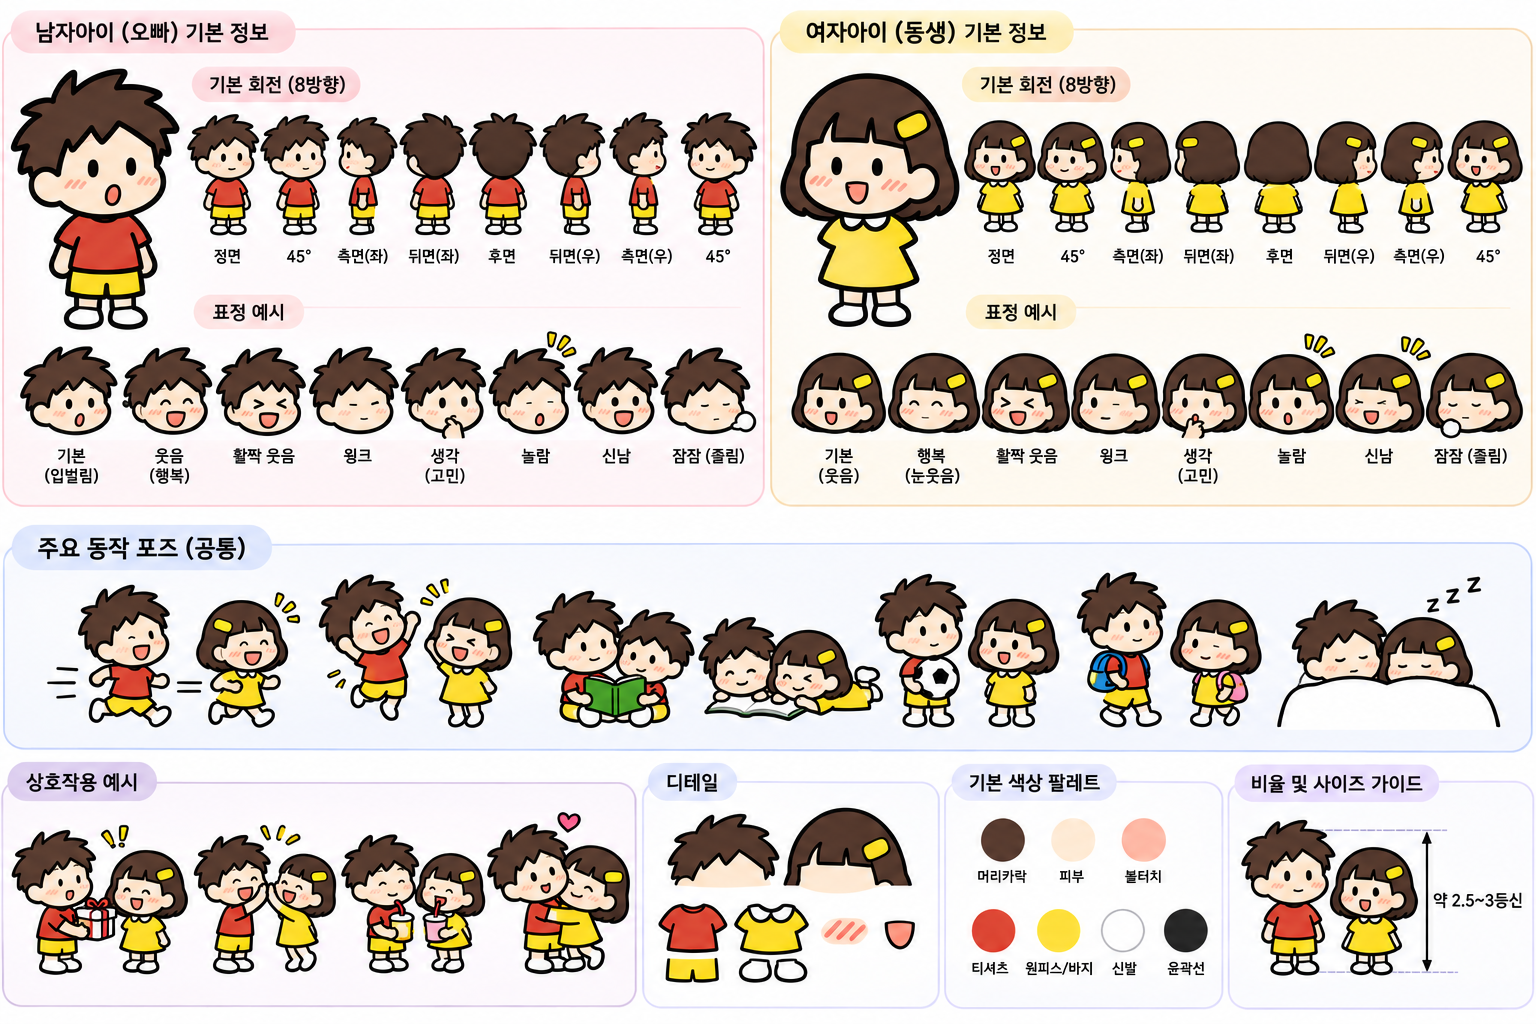
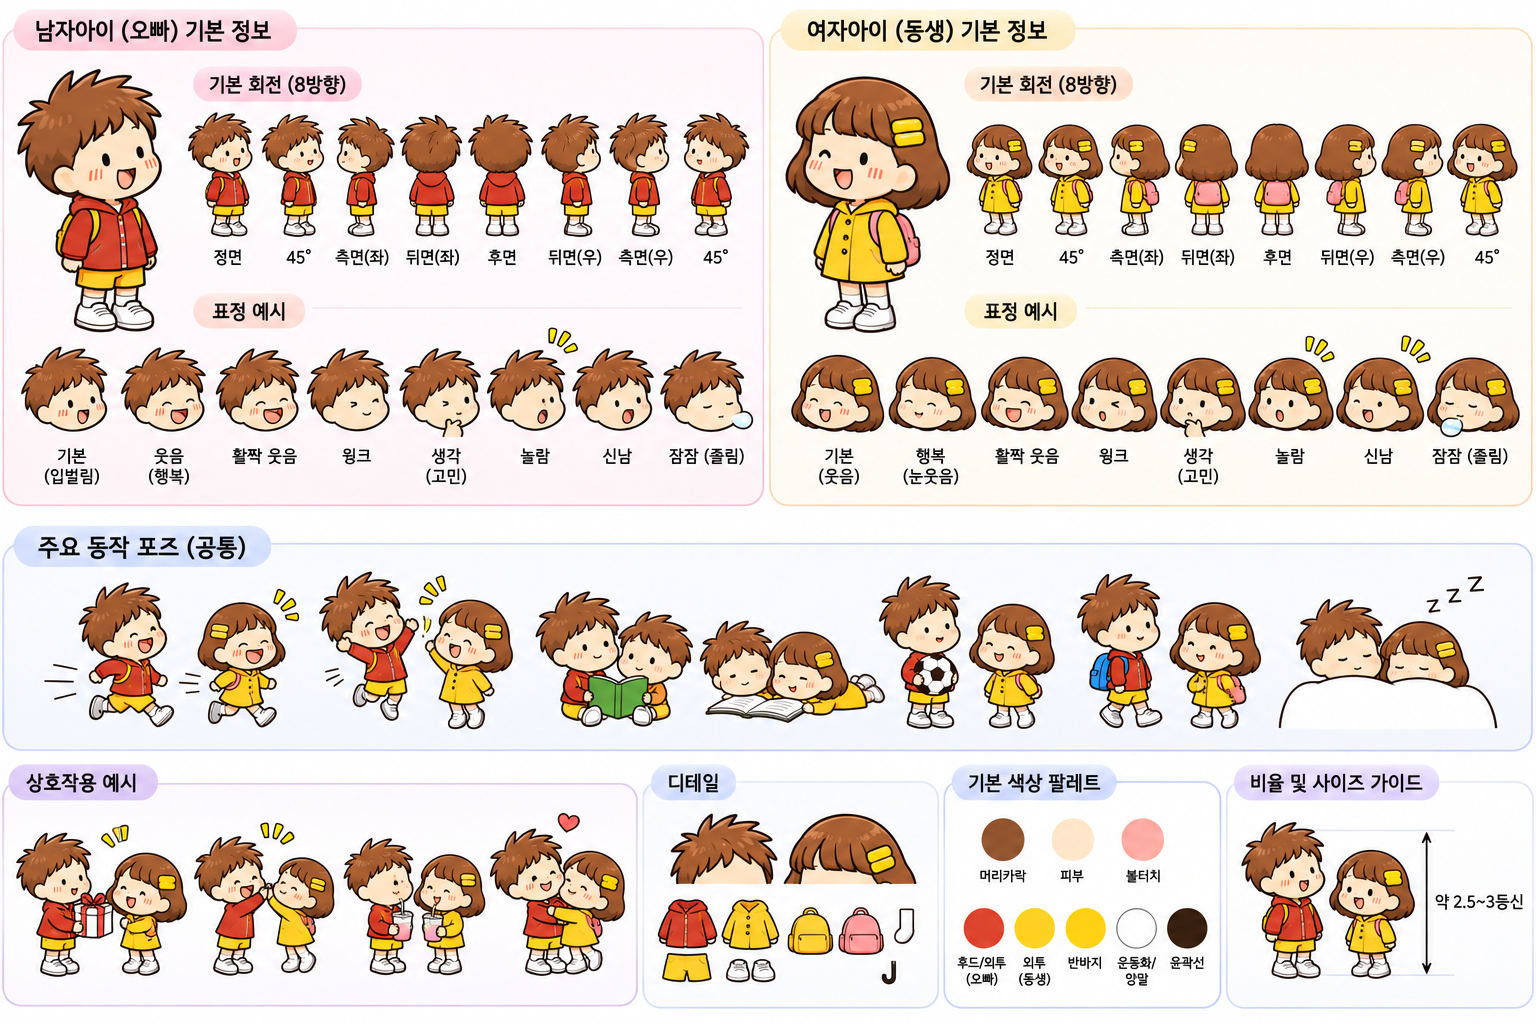
공감툰 캐릭터 시트 교체 (우산 그림과 같은 옷·그림체), 캐릭터 고정 블록을 새 시트 기준으로
Claude-Session: https://claude.ai/code/session_013eU9upHqCkSKw6QAxNnjDy

diff --git a/docs/gongam_guide.md b/docs/gongam_guide.md
@@ -4,7 +4,7 @@
 그림은 ChatGPT(GPT 이미지)로 만들고, **글귀도 GPT가 그림 안에 넣는다.** 프로그램은 그림을 그대로 올린다.
 
 - **캐릭터·선 굵기·채색·글귀 기준 (1순위, 첫 번째로 첨부)**: `assets/brand/siblings_style_ref.jpg` (비 오는 공원, 우산)
-- 각도·표정 참고 시트 (두 번째로 첨부): `assets/brand/siblings_character.png` (8방향·표정·포즈·색상표)
+- 캐릭터 시트 (두 번째로 첨부): `assets/brand/siblings_character.png` (8방향·표정·포즈·옷·색상표, 우산 그림과 같은 옷·그림체로 교체됨)
 - 첫 게시물 초안: `drafts/gongam_rain_umbrella/`
 
 ---
@@ -14,9 +14,10 @@
 | | 오빠 | 동생 |
 |---|---|---|
 | 머리 | 따뜻한 갈색(#864B27), 삐죽삐죽한 짧은 더벅머리 | 따뜻한 갈색 단발 보브, 일자 앞머리 |
-| 포인트 | 없음 (머리 모양이 포인트) | **노란 똑딱 머리핀 하나** (보는 사람 기준 오른쪽 위) |
-| 기본 옷 | **빨간** 반팔 티셔츠 + **노란** 반바지 | **노란** 원피스 + 흰 둥근 카라 |
-| 신발 | 흰 운동화 | 흰 운동화 |
+| 포인트 | 없음 (머리 모양이 포인트) | **노란 두 줄 똑딱핀 하나** (보는 사람 기준 오른쪽 위) |
+| 기본 옷 | **빨간** 후드 점퍼(앞 지퍼) + **노란** 반바지 | **노란** 후드 코트 |
+| 신발·양말 | 흰 양말 + 흰 운동화 | 흰 양말 + 흰 운동화 |
+| 가방 | 노란 책가방 | 분홍 책가방 |
 | 키 | 동생보다 머리 반 개 정도 큼 | 오빠보다 조금 작음 |
 
 공통: 2.5~3등신, 동그란 얼굴, **세로로 긴 까만 타원 눈**, 볼에 **빨간 빗금 세 줄 볼터치**, 작은 입, 살구색 피부(#FEC492), 따뜻한 갈색 머리(#864B27).
@@ -35,7 +36,7 @@
 ### 옷은 계절에 따라 바꿔도 되지만 색 규칙은 지킨다
 - 오빠 = **빨강 상의**, 동생 = **노랑 상의** (우비, 패딩, 니트, 잠옷 모두)
 - 동생 머리핀, 오빠 더벅머리, 볼 빗금, 눈 모양은 **어떤 장면에서도 그대로**
-- 소품(가방·우산 등)은 자유. 예: 오빠 노란 가방, 동생 분홍 가방
+- 가방은 기본이 오빠 노란 책가방·동생 분홍 책가방 (실내·잠옷 장면에서는 빼도 됨). 우산 등 다른 소품은 자유
 
 ### 그림체 규칙
 - **원근감 있는 장면**: 평면 배경이 아니라 소실점이 있는 깊은 실사 공간. 앞·중간·뒤 3겹, 캐릭터 눈높이 카메라, 얕은 심도 (2장 `[규칙]` 원근감 4줄을 매번 넣는다)
@@ -49,11 +50,11 @@
 
 ```
 첫 번째 첨부 이미지(비 오는 공원)의 오빠와 동생을 그대로 그려줘. 얼굴, 머리, 눈, 볼터치, 선 굵기, 채색 느낌까지 똑같이.
-두 번째 첨부 이미지(캐릭터 시트)는 각도와 표정만 참고해. 첫 번째 이미지처럼 캐릭터는 2D 만화 그대로 두고 배경만 실사 사진으로 합성한 한 장이야.
+두 번째 첨부 이미지(캐릭터 시트)에서 각도·표정·옷·색을 확인해. 첫 번째 이미지처럼 캐릭터는 2D 만화 그대로 두고 배경만 실사 사진으로 합성한 한 장이야.
 
 [캐릭터 고정]
-- 오빠: 따뜻한 갈색 삐죽삐죽 짧은 더벅머리, 세로로 긴 까만 타원 눈, 볼에 빨간 빗금 세 줄, 빨간 상의 + 노란 반바지, 흰 운동화
-- 동생: 따뜻한 갈색 단발 보브 + 일자 앞머리, 노란 머리핀 하나(보는 사람 기준 오른쪽 위), 같은 눈과 볼터치, 노란 원피스 + 흰 둥근 카라, 흰 운동화
+- 오빠: 따뜻한 갈색 삐죽삐죽 짧은 더벅머리, 세로로 긴 까만 타원 눈, 볼에 빨간 빗금 세 줄, 빨간 후드 점퍼(앞 지퍼) + 노란 반바지, 흰 양말 + 흰 운동화, 노란 책가방
+- 동생: 따뜻한 갈색 단발 보브 + 일자 앞머리, 노란 두 줄 똑딱핀 하나(보는 사람 기준 오른쪽 위), 같은 눈과 볼터치, 노란 후드 코트, 흰 양말 + 흰 운동화, 분홍 책가방
 - 2.5~3등신, 동그란 얼굴, 따뜻한 갈색 머리(#864B27), 살구색 피부, 볼에 주황빛 빨간 빗금 세 줄. 오빠가 동생보다 조금 큼
 - 선: 첫 번째 이미지와 같은 굵기. 거의 검정에 가까운 아주 짙은 갈색(#16110B) 외곽선, 바깥 윤곽은 굵고 일정하게(세로 1448px 기준 약 4~5px), 머리카락 결·옷 주름 같은 안쪽 선은 더 가늘게(약 2~3px). 선 끝이 둥글고 매끈한 디지털 펜 느낌, 거친 스케치선·붓 터치·두께가 들쭉날쭉한 선 없음
 - 채색: 납작한 셀 채색에 옷 주름에만 아주 옅은 한 단계 그림자. 그라데이션·3D 입체감 없음

diff --git a/drafts/gongam_by_your_side/PROMPT.md b/drafts/gongam_by_your_side/PROMPT.md
@@ -2,16 +2,16 @@
 
 글귀: "말하지 않아도, / 곁에 있을게."
 
-첨부 순서: ① assets/brand/siblings_style_ref.jpg (캐릭터·선 굵기·글귀 기준) ② assets/brand/siblings_character.png (각도·표정 참고)
+첨부 순서: ① assets/brand/siblings_style_ref.jpg (캐릭터·선 굵기·글귀 기준) ② assets/brand/siblings_character.png (각도·표정·옷·색 참고)
 받은 뒤: `python -m screendaily textcheck 그림.jpg`
 
 ```
 첫 번째 첨부 이미지(비 오는 공원)의 오빠와 동생을 그대로 그려줘. 얼굴, 머리, 눈, 볼터치, 선 굵기, 채색 느낌까지 똑같이.
-두 번째 첨부 이미지(캐릭터 시트)는 각도와 표정만 참고해. 첫 번째 이미지처럼 캐릭터는 2D 만화 그대로 두고 배경만 실사 사진으로 합성한 한 장이야.
+두 번째 첨부 이미지(캐릭터 시트)에서 각도·표정·옷·색을 확인해. 첫 번째 이미지처럼 캐릭터는 2D 만화 그대로 두고 배경만 실사 사진으로 합성한 한 장이야.
 
 [캐릭터 고정]
-- 오빠: 따뜻한 갈색 삐죽삐죽 짧은 더벅머리, 세로로 긴 까만 타원 눈, 볼에 빨간 빗금 세 줄, 빨간 상의 + 노란 반바지, 흰 운동화
-- 동생: 따뜻한 갈색 단발 보브 + 일자 앞머리, 노란 머리핀 하나(보는 사람 기준 오른쪽 위), 같은 눈과 볼터치, 노란 원피스 + 흰 둥근 카라, 흰 운동화
+- 오빠: 따뜻한 갈색 삐죽삐죽 짧은 더벅머리, 세로로 긴 까만 타원 눈, 볼에 빨간 빗금 세 줄, 빨간 후드 점퍼(앞 지퍼) + 노란 반바지, 흰 양말 + 흰 운동화, 노란 책가방
+- 동생: 따뜻한 갈색 단발 보브 + 일자 앞머리, 노란 두 줄 똑딱핀 하나(보는 사람 기준 오른쪽 위), 같은 눈과 볼터치, 노란 후드 코트, 흰 양말 + 흰 운동화, 분홍 책가방
 - 2.5~3등신, 동그란 얼굴, 따뜻한 갈색 머리(#864B27), 살구색 피부, 볼에 주황빛 빨간 빗금 세 줄. 오빠가 동생보다 조금 큼
 - 선: 첫 번째 이미지와 같은 굵기. 거의 검정에 가까운 아주 짙은 갈색(#16110B) 외곽선, 바깥 윤곽은 굵고 일정하게(세로 1448px 기준 약 4~5px), 머리카락 결·옷 주름 같은 안쪽 선은 더 가늘게(약 2~3px). 선 끝이 둥글고 매끈한 디지털 펜 느낌, 거친 스케치선·붓 터치·두께가 들쭉날쭉한 선 없음
 - 채색: 납작한 셀 채색에 옷 주름에만 아주 옅은 한 단계 그림자. 그라데이션·3D 입체감 없음
@@ -19,7 +19,7 @@
 
 [장면]
 늦가을 해 질 녘, 실사 사진 같은 한국 아파트 단지 놀이터. 낙엽 깔린 산책로가 벤치 옆을 지나 화면 안쪽 아파트 동 사이로 멀어지고, 줄지은 가로등과 나무가 뒤로 갈수록 작아지며 얕은 심도로 흐려져. 화면 앞쪽 가장자리에 흐린 단풍잎 몇 장, 주황빛 노을이 바닥에 길게 비쳐.
-나무 벤치에 동생(노란 니트 원피스)이 무릎에 손을 모으고 고개를 숙인 채 시트의 '생각(고민)' 표정으로 앉아 있고, 바로 옆에 오빠(빨간 후드)가 말없이 나란히 앉아 동생 쪽을 보며 시트의 '기본' 표정으로 작게 미소 짓고 있어. 오빠 손에는 따뜻한 캔 음료 두 개가 들려 있어. 벤치를 비스듬한 45도 각도에서 보는 구도로, 두 사람 발밑과 벤치 아래에 노을 방향의 긴 그림자.
+나무 벤치에 동생(기본 노란 후드 코트)이 무릎에 손을 모으고 고개를 숙인 채 시트의 '생각(고민)' 표정으로 앉아 있고, 바로 옆에 오빠(기본 빨간 후드 점퍼)가 말없이 나란히 앉아 동생 쪽을 보며 시트의 '기본' 표정으로 작게 미소 짓고 있어. 오빠 손에는 따뜻한 캔 음료 두 개가 들려 있어. 벤치를 비스듬한 45도 각도에서 보는 구도로, 두 사람 발밑과 벤치 아래에 노을 방향의 긴 그림자.
 
 [글귀]
 첫 번째 첨부 이미지의 글귀와 똑같은 폰트, 크기, 위치, 색으로 아래 두 줄을 정확히 그대로 써줘.

diff --git a/drafts/gongam_well_done/PROMPT.md b/drafts/gongam_well_done/PROMPT.md
@@ -2,16 +2,16 @@
 
 글귀: "오늘도 참 애썼어. / 그걸로 충분해."
 
-첨부 순서: ① assets/brand/siblings_style_ref.jpg (캐릭터·선 굵기·글귀 기준) ② assets/brand/siblings_character.png (각도·표정 참고)
+첨부 순서: ① assets/brand/siblings_style_ref.jpg (캐릭터·선 굵기·글귀 기준) ② assets/brand/siblings_character.png (각도·표정·옷·색 참고)
 받은 뒤: `python -m screendaily textcheck 그림.jpg`
 
 ```
 첫 번째 첨부 이미지(비 오는 공원)의 오빠와 동생을 그대로 그려줘. 얼굴, 머리, 눈, 볼터치, 선 굵기, 채색 느낌까지 똑같이.
-두 번째 첨부 이미지(캐릭터 시트)는 각도와 표정만 참고해. 첫 번째 이미지처럼 캐릭터는 2D 만화 그대로 두고 배경만 실사 사진으로 합성한 한 장이야.
+두 번째 첨부 이미지(캐릭터 시트)에서 각도·표정·옷·색을 확인해. 첫 번째 이미지처럼 캐릭터는 2D 만화 그대로 두고 배경만 실사 사진으로 합성한 한 장이야.
 
 [캐릭터 고정]
-- 오빠: 따뜻한 갈색 삐죽삐죽 짧은 더벅머리, 세로로 긴 까만 타원 눈, 볼에 빨간 빗금 세 줄, 빨간 상의 + 노란 반바지, 흰 운동화
-- 동생: 따뜻한 갈색 단발 보브 + 일자 앞머리, 노란 머리핀 하나(보는 사람 기준 오른쪽 위), 같은 눈과 볼터치, 노란 원피스 + 흰 둥근 카라, 흰 운동화
+- 오빠: 따뜻한 갈색 삐죽삐죽 짧은 더벅머리, 세로로 긴 까만 타원 눈, 볼에 빨간 빗금 세 줄, 빨간 후드 점퍼(앞 지퍼) + 노란 반바지, 흰 양말 + 흰 운동화, 노란 책가방
+- 동생: 따뜻한 갈색 단발 보브 + 일자 앞머리, 노란 두 줄 똑딱핀 하나(보는 사람 기준 오른쪽 위), 같은 눈과 볼터치, 노란 후드 코트, 흰 양말 + 흰 운동화, 분홍 책가방
 - 2.5~3등신, 동그란 얼굴, 따뜻한 갈색 머리(#864B27), 살구색 피부, 볼에 주황빛 빨간 빗금 세 줄. 오빠가 동생보다 조금 큼
 - 선: 첫 번째 이미지와 같은 굵기. 거의 검정에 가까운 아주 짙은 갈색(#16110B) 외곽선, 바깥 윤곽은 굵고 일정하게(세로 1448px 기준 약 4~5px), 머리카락 결·옷 주름 같은 안쪽 선은 더 가늘게(약 2~3px). 선 끝이 둥글고 매끈한 디지털 펜 느낌, 거친 스케치선·붓 터치·두께가 들쭉날쭉한 선 없음
 - 채색: 납작한 셀 채색에 옷 주름에만 아주 옅은 한 단계 그림자. 그라데이션·3D 입체감 없음
@@ -19,7 +19,7 @@
 
 [장면]
 초겨울 저녁, 실사 사진 같은 한국 주택가 골목. 젖은 듯 반짝이는 좁은 골목길이 화면 안쪽으로 길게 이어지고, 양옆 담장과 줄지은 주황빛 가로등이 뒤로 갈수록 작아지며 얕은 심도로 흐려져. 화면 앞쪽 가장자리에 흐린 담장 위 화분 잎사귀, 하늘은 해 진 직후의 짙은 남색.
-가장 가까운 가로등 불빛 아래, 책가방을 멘 동생(노란 패딩)이 지친 듯 살짝 고개를 숙이고 시트의 '행복(눈웃음)' 표정으로 눈을 감고 있고, 오빠(빨간 패딩)가 한 손을 동생 머리 위에 얹어 쓰다듬으며 시트의 '웃음(행복)' 표정으로 내려다봐. 골목을 비스듬히 바라보는 구도로, 가로등 빛 때문에 두 사람 발밑에서 앞쪽으로 그림자가 길게 늘어져.
+가장 가까운 가로등 불빛 아래, 분홍 책가방을 멘 동생(기본 노란 후드 코트)이 지친 듯 살짝 고개를 숙이고 시트의 '행복(눈웃음)' 표정으로 눈을 감고 있고, 오빠(기본 빨간 후드 점퍼, 노란 책가방)가 한 손을 동생 머리 위에 얹어 쓰다듬으며 시트의 '웃음(행복)' 표정으로 내려다봐. 골목을 비스듬히 바라보는 구도로, 가로등 빛 때문에 두 사람 발밑에서 앞쪽으로 그림자가 길게 늘어져.
 
 [글귀]
 첫 번째 첨부 이미지의 글귀와 똑같은 폰트, 크기, 위치, 색으로 아래 두 줄을 정확히 그대로 써줘.

diff --git a/drafts/gongam_warm_cup/PROMPT.md b/drafts/gongam_warm_cup/PROMPT.md
@@ -7,11 +7,11 @@
 
 ```
 첫 번째 첨부 이미지(비 오는 공원)의 오빠와 동생을 그대로 그려줘. 얼굴, 머리, 눈, 볼터치, 선 굵기, 채색 느낌까지 똑같이.
-두 번째 첨부 이미지(캐릭터 시트)는 각도와 표정만 참고해. 첫 번째 이미지처럼 캐릭터는 2D 만화 그대로 두고 배경만 실사 사진으로 합성한 한 장이야.
+두 번째 첨부 이미지(캐릭터 시트)에서 각도·표정·옷·색을 확인해. 첫 번째 이미지처럼 캐릭터는 2D 만화 그대로 두고 배경만 실사 사진으로 합성한 한 장이야.
 
 [캐릭터 고정]
-- 오빠: 따뜻한 갈색 삐죽삐죽 짧은 더벅머리, 세로로 긴 까만 타원 눈, 볼에 빨간 빗금 세 줄, 빨간 상의 + 노란 반바지, 흰 운동화
-- 동생: 따뜻한 갈색 단발 보브 + 일자 앞머리, 노란 머리핀 하나(보는 사람 기준 오른쪽 위), 같은 눈과 볼터치, 노란 원피스 + 흰 둥근 카라, 흰 운동화
+- 오빠: 따뜻한 갈색 삐죽삐죽 짧은 더벅머리, 세로로 긴 까만 타원 눈, 볼에 빨간 빗금 세 줄, 빨간 후드 점퍼(앞 지퍼) + 노란 반바지, 흰 양말 + 흰 운동화, 노란 책가방
+- 동생: 따뜻한 갈색 단발 보브 + 일자 앞머리, 노란 두 줄 똑딱핀 하나(보는 사람 기준 오른쪽 위), 같은 눈과 볼터치, 노란 후드 코트, 흰 양말 + 흰 운동화, 분홍 책가방
 - 2.5~3등신, 동그란 얼굴, 따뜻한 갈색 머리(#864B27), 살구색 피부, 볼에 주황빛 빨간 빗금 세 줄. 오빠가 동생보다 조금 큼
 - 선: 첫 번째 이미지와 같은 굵기. 거의 검정에 가까운 아주 짙은 갈색(#16110B) 외곽선, 바깥 윤곽은 굵고 일정하게(세로 1448px 기준 약 4~5px), 머리카락 결·옷 주름 같은 안쪽 선은 더 가늘게(약 2~3px). 선 끝이 둥글고 매끈한 디지털 펜 느낌, 거친 스케치선·붓 터치·두께가 들쭉날쭉한 선 없음
 - 채색: 납작한 셀 채색에 옷 주름에만 아주 옅은 한 단계 그림자. 그라데이션·3D 입체감 없음

diff --git a/.claude/skills/gongamtoon/SKILL.md b/.claude/skills/gongamtoon/SKILL.md
@@ -1,6 +1,6 @@
 ---
 name: gongamtoon
-description: 오빠·동생 캐릭터(빨간 티 더벅머리 오빠 + 노란 원피스·노란 머리핀 동생)를 실사 배경에 넣은 '오누이 공감툰' 한 장 게시물을 만든다. 주제(또는 '다음 거')를 받으면 글귀·ChatGPT 프롬프트·게시글을 쓰고, 사용자가 그려 온 그림을 받아 월·수·금 21시 빈자리에 예약한다. "공감툰", "오누이", "공감컷", "다음 공감 게시물", "이 그림 올려줘(오빠·동생 그림)" 같은 요청에 사용.
+description: 오빠·동생 캐릭터(빨간 후드 점퍼 더벅머리 오빠 + 노란 후드 코트·노란 똑딱핀 동생)를 실사 배경에 넣은 '오누이 공감툰' 한 장 게시물을 만든다. 주제(또는 '다음 거')를 받으면 글귀·ChatGPT 프롬프트·게시글을 쓰고, 사용자가 그려 온 그림을 받아 월·수·금 21시 빈자리에 예약한다. "공감툰", "오누이", "공감컷", "다음 공감 게시물", "이 그림 올려줘(오빠·동생 그림)" 같은 요청에 사용.
 ---
 
 # 오누이 공감툰 (월·수·금 21:00, 한 장)
